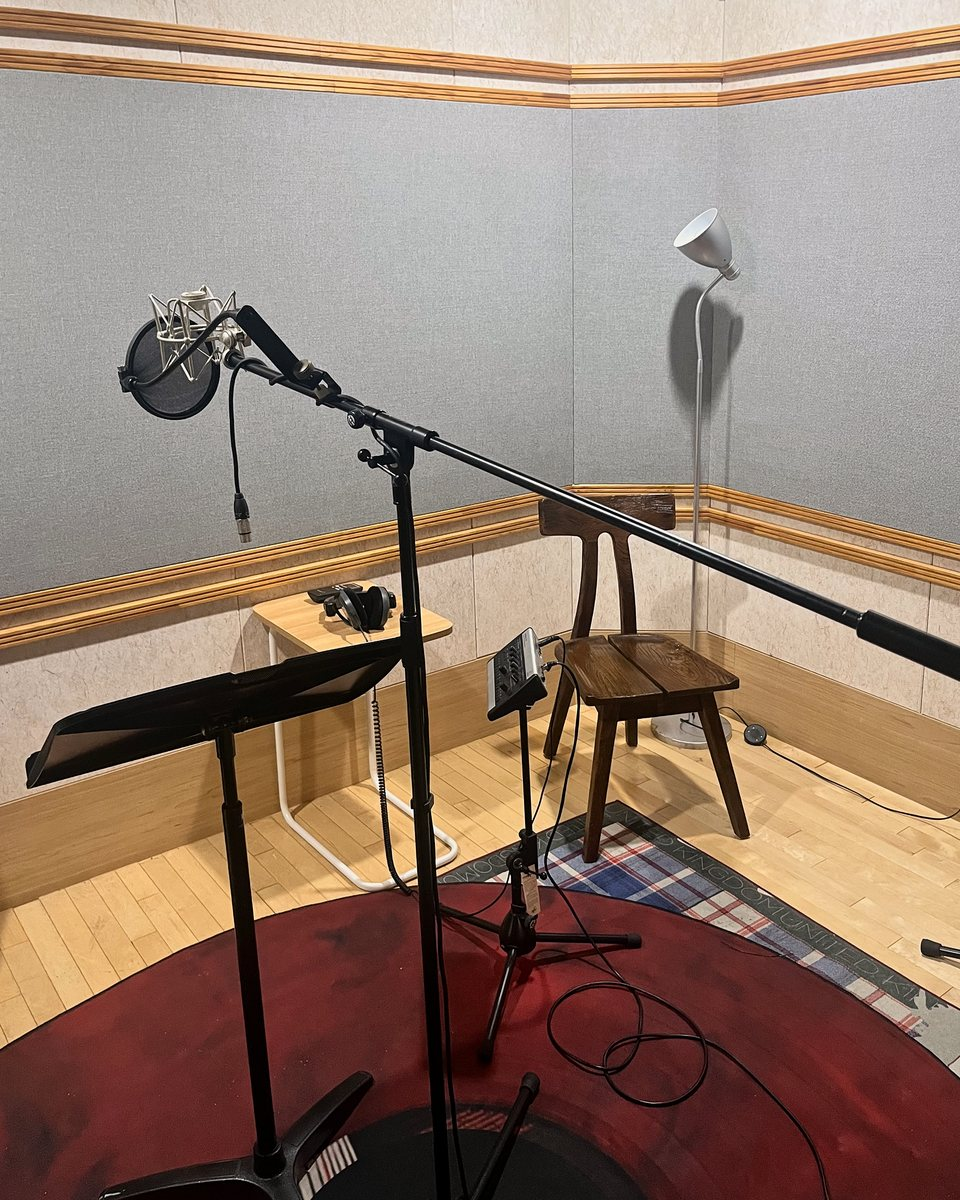
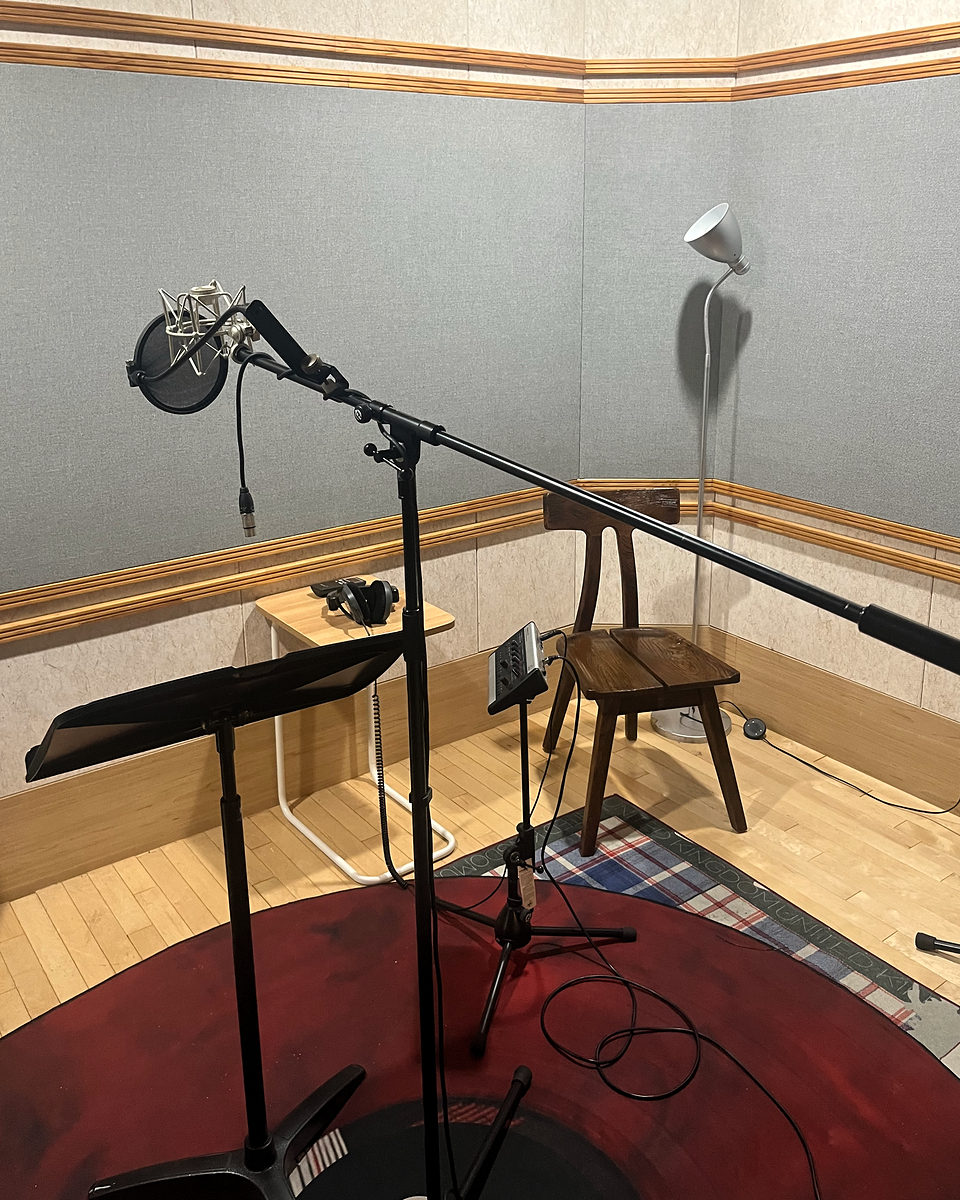
녹음실 사진 2차 보정본 교체: 히어로·부스·보관함·모니터 컨트롤러(기기 전체)·부스 안쪽, 컨트롤러 alt 갱신

diff --git a/en/studio/index.html b/en/studio/index.html
@@ -25,7 +25,7 @@
 <body>
 <a class="skip" href="#main">Skip to content</a>
 <header class="site-header"><div class="wrap bar"><a class="brand" href="/en/">ML Music Studio</a><nav class="site-nav" aria-label="Main navigation"><details class="menu"><summary>Menu</summary><ul class="nav"><li><a href="/en/work/">Work</a></li><li><a href="/en/studio/" aria-current="page">Studio</a></li><li><a href="/en/apps/">Apps</a></li><li><a href="/en/tools/">Web Tools</a></li><li><a href="/en/plugins/">Plugins</a></li><li><a href="/guides/">Guides</a></li></ul></details><ul class="nav nav-wide"><li><a href="/en/work/">Work</a></li><li><a href="/en/studio/" aria-current="page">Studio</a></li><li><a href="/en/apps/">Apps</a></li><li><a href="/en/tools/">Web Tools</a></li><li><a href="/en/plugins/">Plugins</a></li><li><a href="/guides/">Guides</a></li></ul></nav><details class="lang"><summary aria-label="Language">EN ▾</summary><ul><li><a href="/studio/" hreflang="ko" lang="ko">한국어</a></li><li><a href="/en/studio/" hreflang="en" lang="en" aria-current="true">English</a></li></ul></details></div></header>
-<main id="main"><section class="photo-hero"><div class="ph-media"><img src="/img/studio/control-room.jpg" srcset="/img/studio/control-room-1200.jpg 1200w, /img/studio/control-room.jpg 1440w" sizes="(min-width:900px) min(590px, 50vw), min(767px, calc(100vw - 32px))" alt="The ML Music Studio control room: four monitor speakers, screens and the desk" width="1440" height="960" fetchpriority="high"></div><div class="wrap ph-copy"><h1>ML Music Studio Recording</h1><p class="sub">Yongsan, Seoul · Recording · Mixing · Mastering</p><div class="row"><a class="btn primary" href="https://open.kakao.com/o/sQhjCeZb" rel="noopener">Contact us</a><a class="btn" href="/en/work/">See the work</a></div></div></section><section class="band"><div class="wrap"><h2>The studio</h2><div class="gallery bento"><figure class="pic port"><img src="/img/studio/vocal-booth.jpg" alt="The recording booth with a boom stand, a pop filter and a music stand" width="960" height="1200" loading="lazy"><figcaption>Recording booth</figcaption></figure><figure class="pic port"><img src="/img/studio/mic-cabinet.jpg" alt="Condenser, dynamic and handheld microphones on the shelves of a humidity-controlled cabinet" width="960" height="1200" loading="lazy"><figcaption>Microphone dry cabinet</figcaption></figure><figure class="pic land"><img src="/img/studio/preamp-compressor.jpg" alt="The controls of a Neve 1073DPA microphone preamp and a Tube-Tech CL 1B compressor" width="1023" height="682" loading="lazy"><figcaption>Preamp and compressor</figcaption></figure><figure class="pic land"><img src="/img/studio/monitor-controller.jpg" alt="The volume knob and buttons of a Grace Design m905 monitor controller" width="1200" height="800" loading="lazy"><figcaption>Monitor controller</figcaption></figure><figure class="pic land"><img src="/img/studio/booth-corner.jpg" alt="Inside the recording booth: a boom stand with a pop filter and an empty shock mount, a chair and headphones" width="1400" height="1000" loading="lazy"><figcaption>Inside the booth</figcaption></figure></div></div></section><section class="band"><div class="wrap"><h2>Gear</h2><div class="gear-groups"><div class="gear-group"><h3>Microphones</h3><ul class="gear"><li>Neumann U87 (vintage) microphone</li><li>Telefunken microphone</li></ul></div><div class="gear-group"><h3>Preamps &amp; compressor</h3><ul class="gear"><li>Grace Design m201 microphone preamp</li><li>Neve 1073DPA</li><li>Lydkraft Tube-Tech CL 1B compressor</li></ul></div><div class="gear-group"><h3>Interface &amp; controller</h3><ul class="gear"><li>Avid HD I/O</li><li>Grace Design m905 monitor controller</li></ul></div><div class="gear-group"><h3>Monitors</h3><ul class="gear"><li>Focal Solo6 Be monitors</li><li>Dynaudio monitors</li></ul></div></div><p class="note">The equipment used in the studio.</p></div></section><section class="band"><div class="wrap"><h2>Fields of work</h2><ul class="chips"><li>Albums</li><li>Film</li><li>Theatre</li><li>Musical</li><li>Broadcast</li><li>Events</li><li>Audiobook</li></ul></div></section><section class="band"><div class="wrap"><div class="band-head"><h2>Selected work</h2><a class="more" href="/en/work/">See all work →</a></div><div class="covers strip-4"><figure class="cover"><img src="/img/work/01_17.jpg" alt="이루마 — Blind Film" width="324" height="324" loading="lazy"><figcaption><strong><span lang="ko">이루마</span></strong><span>Blind Film</span></figcaption></figure><figure class="cover"><img src="/img/work/hs_11.jpg" alt="류석원 — First Moment To Breakup" width="324" height="324" loading="lazy"><figcaption><strong><span lang="ko">류석원</span></strong><span>First Moment To Breakup</span></figcaption></figure><figure class="cover"><img src="/img/work/hs_09.jpg" alt="박강수 — GiRL’s" width="324" height="324" loading="lazy"><figcaption><strong><span lang="ko">박강수</span></strong><span>GiRL’s</span></figcaption></figure><figure class="cover"><img src="/img/work/hs_12.jpg" alt="우당탕탕 아이쿠" width="324" height="324" loading="lazy"><figcaption><strong><span lang="ko">우당탕탕 아이쿠</span></strong></figcaption></figure><figure class="cover"><img src="/img/work/01_11.jpg" alt="이지영 — Eulogy" width="324" height="324" loading="lazy"><figcaption><strong><span lang="ko">이지영</span></strong><span>Eulogy</span></figcaption></figure><figure class="cover"><img src="/img/work/hs_01.jpg" alt="완전보험주식회사" width="324" height="324" loading="lazy"><figcaption><strong><span lang="ko">완전보험주식회사</span></strong></figcaption></figure><figure class="cover"><img src="/img/work/01_03.jpg" alt="서지안 — THINK ABOUT" width="324" height="324" loading="lazy"><figcaption><strong><span lang="ko">서지안</span></strong><span>THINK ABOUT</span></figcaption></figure><figure class="cover"><img src="/img/work/05_01.jpg" alt="제100회 전국체전" width="324" height="324" loading="lazy"><figcaption><strong><span lang="ko">제</span>100<span lang="ko">회 전국체전</span></strong></figcaption></figure></div></div></section><section class="band dark"><div class="wrap"><h2>Location and contact</h2><p>By appointment — please message us on KakaoTalk first.</p><div class="row"><a class="btn primary" href="https://open.kakao.com/o/sQhjCeZb" rel="noopener">Contact on KakaoTalk</a><a class="btn" href="mailto:wa547@hanmail.net">wa547@hanmail.net</a></div><p class="addr"><a href="https://map.naver.com/p/search/%EC%84%9C%EC%9A%B8%20%EC%9A%A9%EC%82%B0%EA%B5%AC%20%EC%9B%90%ED%9A%A8%EB%A1%9C4%EA%B0%80%20120-3" rel="noopener">3F, 120-3 Wonhyo-ro 4-ga, Yongsan-gu, Seoul</a></p></div></section></main>
+<main id="main"><section class="photo-hero"><div class="ph-media"><img src="/img/studio/control-room.jpg" srcset="/img/studio/control-room-1200.jpg 1200w, /img/studio/control-room.jpg 1440w" sizes="(min-width:900px) min(590px, 50vw), min(767px, calc(100vw - 32px))" alt="The ML Music Studio control room: four monitor speakers, screens and the desk" width="1440" height="960" fetchpriority="high"></div><div class="wrap ph-copy"><h1>ML Music Studio Recording</h1><p class="sub">Yongsan, Seoul · Recording · Mixing · Mastering</p><div class="row"><a class="btn primary" href="https://open.kakao.com/o/sQhjCeZb" rel="noopener">Contact us</a><a class="btn" href="/en/work/">See the work</a></div></div></section><section class="band"><div class="wrap"><h2>The studio</h2><div class="gallery bento"><figure class="pic port"><img src="/img/studio/vocal-booth.jpg" alt="The recording booth with a boom stand, a pop filter and a music stand" width="960" height="1200" loading="lazy"><figcaption>Recording booth</figcaption></figure><figure class="pic port"><img src="/img/studio/mic-cabinet.jpg" alt="Condenser, dynamic and handheld microphones on the shelves of a humidity-controlled cabinet" width="960" height="1200" loading="lazy"><figcaption>Microphone dry cabinet</figcaption></figure><figure class="pic land"><img src="/img/studio/preamp-compressor.jpg" alt="The controls of a Neve 1073DPA microphone preamp and a Tube-Tech CL 1B compressor" width="1023" height="682" loading="lazy"><figcaption>Preamp and compressor</figcaption></figure><figure class="pic land"><img src="/img/studio/monitor-controller.jpg" alt="A Grace Design m905 monitor controller, showing the whole unit with its display and volume knob" width="1200" height="800" loading="lazy"><figcaption>Monitor controller</figcaption></figure><figure class="pic land"><img src="/img/studio/booth-corner.jpg" alt="Inside the recording booth: a boom stand with a pop filter and an empty shock mount, a chair and headphones" width="1400" height="1000" loading="lazy"><figcaption>Inside the booth</figcaption></figure></div></div></section><section class="band"><div class="wrap"><h2>Gear</h2><div class="gear-groups"><div class="gear-group"><h3>Microphones</h3><ul class="gear"><li>Neumann U87 (vintage) microphone</li><li>Telefunken microphone</li></ul></div><div class="gear-group"><h3>Preamps &amp; compressor</h3><ul class="gear"><li>Grace Design m201 microphone preamp</li><li>Neve 1073DPA</li><li>Lydkraft Tube-Tech CL 1B compressor</li></ul></div><div class="gear-group"><h3>Interface &amp; controller</h3><ul class="gear"><li>Avid HD I/O</li><li>Grace Design m905 monitor controller</li></ul></div><div class="gear-group"><h3>Monitors</h3><ul class="gear"><li>Focal Solo6 Be monitors</li><li>Dynaudio monitors</li></ul></div></div><p class="note">The equipment used in the studio.</p></div></section><section class="band"><div class="wrap"><h2>Fields of work</h2><ul class="chips"><li>Albums</li><li>Film</li><li>Theatre</li><li>Musical</li><li>Broadcast</li><li>Events</li><li>Audiobook</li></ul></div></section><section class="band"><div class="wrap"><div class="band-head"><h2>Selected work</h2><a class="more" href="/en/work/">See all work →</a></div><div class="covers strip-4"><figure class="cover"><img src="/img/work/01_17.jpg" alt="이루마 — Blind Film" width="324" height="324" loading="lazy"><figcaption><strong><span lang="ko">이루마</span></strong><span>Blind Film</span></figcaption></figure><figure class="cover"><img src="/img/work/hs_11.jpg" alt="류석원 — First Moment To Breakup" width="324" height="324" loading="lazy"><figcaption><strong><span lang="ko">류석원</span></strong><span>First Moment To Breakup</span></figcaption></figure><figure class="cover"><img src="/img/work/hs_09.jpg" alt="박강수 — GiRL’s" width="324" height="324" loading="lazy"><figcaption><strong><span lang="ko">박강수</span></strong><span>GiRL’s</span></figcaption></figure><figure class="cover"><img src="/img/work/hs_12.jpg" alt="우당탕탕 아이쿠" width="324" height="324" loading="lazy"><figcaption><strong><span lang="ko">우당탕탕 아이쿠</span></strong></figcaption></figure><figure class="cover"><img src="/img/work/01_11.jpg" alt="이지영 — Eulogy" width="324" height="324" loading="lazy"><figcaption><strong><span lang="ko">이지영</span></strong><span>Eulogy</span></figcaption></figure><figure class="cover"><img src="/img/work/hs_01.jpg" alt="완전보험주식회사" width="324" height="324" loading="lazy"><figcaption><strong><span lang="ko">완전보험주식회사</span></strong></figcaption></figure><figure class="cover"><img src="/img/work/01_03.jpg" alt="서지안 — THINK ABOUT" width="324" height="324" loading="lazy"><figcaption><strong><span lang="ko">서지안</span></strong><span>THINK ABOUT</span></figcaption></figure><figure class="cover"><img src="/img/work/05_01.jpg" alt="제100회 전국체전" width="324" height="324" loading="lazy"><figcaption><strong><span lang="ko">제</span>100<span lang="ko">회 전국체전</span></strong></figcaption></figure></div></div></section><section class="band dark"><div class="wrap"><h2>Location and contact</h2><p>By appointment — please message us on KakaoTalk first.</p><div class="row"><a class="btn primary" href="https://open.kakao.com/o/sQhjCeZb" rel="noopener">Contact on KakaoTalk</a><a class="btn" href="mailto:wa547@hanmail.net">wa547@hanmail.net</a></div><p class="addr"><a href="https://map.naver.com/p/search/%EC%84%9C%EC%9A%B8%20%EC%9A%A9%EC%82%B0%EA%B5%AC%20%EC%9B%90%ED%9A%A8%EB%A1%9C4%EA%B0%80%20120-3" rel="noopener">3F, 120-3 Wonhyo-ro 4-ga, Yongsan-gu, Seoul</a></p></div></section></main>
 <footer class="site-footer"><div class="wrap foot-grid"><div class="foot-brand"><a class="brand" href="/en/">ML Music Studio</a><p class="foot-tag">A recording, mixing and mastering studio in Yongsan, Seoul. We also make apps and web tools for sound work.</p></div><div class="foot-col"><p class="foot-h">Work</p><ul class="foot-links"><li><a href="/en/work/">Work</a></li><li><a href="/en/about/">About</a></li></ul></div><div class="foot-col"><p class="foot-h">Studio</p><ul class="foot-links"><li><a href="/en/studio/">Studio</a></li><li><a href="https://map.naver.com/p/search/%EC%84%9C%EC%9A%B8%20%EC%9A%A9%EC%82%B0%EA%B5%AC%20%EC%9B%90%ED%9A%A8%EB%A1%9C4%EA%B0%80%20120-3" rel="noopener">Directions</a></li></ul></div><div class="foot-col"><p class="foot-h">Products</p><ul class="foot-links"><li><a href="/en/apps/">Apps</a></li><li><a href="/en/tools/">Web Tools</a></li><li><a href="/en/plugins/">Plugins</a></li><li><a href="/guides/">Guides</a></li></ul></div><div class="foot-col"><p class="foot-h">Contact</p><ul class="foot-links"><li><a href="/en/contact/">How to reach us</a></li><li><a href="https://open.kakao.com/o/sQhjCeZb" rel="noopener">Contact on KakaoTalk</a></li><li><a href="mailto:wa547@hanmail.net">wa547@hanmail.net</a></li><li><a href="/en/privacy/">Privacy Policy</a></li></ul></div></div><div class="wrap"><p class="copy">© 2026 ML Music Studio</p></div></footer>
 </body>
 </html>

diff --git a/studio/index.html b/studio/index.html
@@ -25,7 +25,7 @@
 <body>
 <a class="skip" href="#main">본문으로 건너뛰기</a>
 <header class="site-header"><div class="wrap bar"><a class="brand" href="/">ML Music Studio</a><nav class="site-nav" aria-label="주 메뉴"><details class="menu"><summary>메뉴</summary><ul class="nav"><li><a href="/work/">작업</a></li><li><a href="/studio/" aria-current="page">녹음실</a></li><li><a href="/apps/">앱</a></li><li><a href="/tools/">웹 도구</a></li><li><a href="/plugins/">플러그인</a></li><li><a href="/guides/">가이드</a></li></ul></details><ul class="nav nav-wide"><li><a href="/work/">작업</a></li><li><a href="/studio/" aria-current="page">녹음실</a></li><li><a href="/apps/">앱</a></li><li><a href="/tools/">웹 도구</a></li><li><a href="/plugins/">플러그인</a></li><li><a href="/guides/">가이드</a></li></ul></nav><details class="lang"><summary aria-label="언어">KO ▾</summary><ul><li><a href="/studio/" hreflang="ko" lang="ko" aria-current="true">한국어</a></li><li><a href="/en/studio/" hreflang="en" lang="en">English</a></li></ul></details></div></header>
-<main id="main"><section class="photo-hero"><div class="ph-media"><img src="/img/studio/control-room.jpg" srcset="/img/studio/control-room-1200.jpg 1200w, /img/studio/control-room.jpg 1440w" sizes="(min-width:900px) min(590px, 50vw), min(767px, calc(100vw - 32px))" alt="ML Music Studio 컨트롤룸: 모니터 스피커 네 대와 화면, 책상" width="1440" height="960" fetchpriority="high"></div><div class="wrap ph-copy"><h1>ML Music Studio 녹음실</h1><p class="sub">서울 용산 · 녹음 · 믹싱 · 마스터링</p><div class="row"><a class="btn primary" href="https://open.kakao.com/o/sQhjCeZb" rel="noopener">문의하기</a><a class="btn" href="/work/">작업 보기</a></div></div></section><section class="band"><div class="wrap"><h2>작업실</h2><div class="gallery bento"><figure class="pic port"><img src="/img/studio/vocal-booth.jpg" alt="붐 스탠드와 팝 필터, 보면대가 놓인 녹음 부스" width="960" height="1200" loading="lazy"><figcaption>녹음 부스</figcaption></figure><figure class="pic port"><img src="/img/studio/mic-cabinet.jpg" alt="습도 조절 보관함 선반에 놓인 콘덴서·다이내믹·핸드헬드 마이크" width="960" height="1200" loading="lazy"><figcaption>마이크 보관함</figcaption></figure><figure class="pic land"><img src="/img/studio/preamp-compressor.jpg" alt="Neve 1073DPA 마이크 프리앰프와 Tube-Tech CL 1B 컴프레서의 노브" width="1023" height="682" loading="lazy"><figcaption>프리앰프와 컴프레서</figcaption></figure><figure class="pic land"><img src="/img/studio/monitor-controller.jpg" alt="Grace Design m905 모니터 컨트롤러의 볼륨 노브와 버튼" width="1200" height="800" loading="lazy"><figcaption>모니터 컨트롤러</figcaption></figure><figure class="pic land"><img src="/img/studio/booth-corner.jpg" alt="팝 필터와 빈 쇼크 마운트가 달린 붐 스탠드, 의자와 헤드폰이 놓인 녹음 부스 안쪽" width="1400" height="1000" loading="lazy"><figcaption>녹음 부스 안쪽</figcaption></figure></div></div></section><section class="band"><div class="wrap"><h2>장비</h2><div class="gear-groups"><div class="gear-group"><h3>마이크</h3><ul class="gear"><li>Neumann U87 빈티지 마이크</li><li>Telefunken 마이크</li></ul></div><div class="gear-group"><h3>프리앰프·컴프레서</h3><ul class="gear"><li>Grace Design m201 마이크 프리앰프</li><li>Neve 1073DPA</li><li>Lydkraft Tube-Tech CL 1B 컴프레서</li></ul></div><div class="gear-group"><h3>인터페이스·컨트롤러</h3><ul class="gear"><li>Avid HD I/O</li><li>Grace Design m905 모니터 컨트롤러</li></ul></div><div class="gear-group"><h3>모니터</h3><ul class="gear"><li>Focal Solo6 Be 모니터</li><li>Dynaudio 모니터</li></ul></div></div><p class="note">작업실에서 쓰는 장비입니다.</p></div></section><section class="band"><div class="wrap"><h2>작업 분야</h2><ul class="chips"><li>음반</li><li>영화</li><li>연극</li><li>뮤지컬</li><li>방송</li><li>행사</li><li>오디오북</li></ul></div></section><section class="band"><div class="wrap"><div class="band-head"><h2>참여한 작업</h2><a class="more" href="/work/">전체 작업 보기 →</a></div><div class="covers strip-4"><figure class="cover"><img src="/img/work/01_17.jpg" alt="이루마 — Blind Film" width="324" height="324" loading="lazy"><figcaption><strong>이루마</strong><span>Blind Film</span></figcaption></figure><figure class="cover"><img src="/img/work/hs_11.jpg" alt="류석원 — First Moment To Breakup" width="324" height="324" loading="lazy"><figcaption><strong>류석원</strong><span>First Moment To Breakup</span></figcaption></figure><figure class="cover"><img src="/img/work/hs_09.jpg" alt="박강수 — GiRL’s" width="324" height="324" loading="lazy"><figcaption><strong>박강수</strong><span>GiRL’s</span></figcaption></figure><figure class="cover"><img src="/img/work/hs_12.jpg" alt="우당탕탕 아이쿠" width="324" height="324" loading="lazy"><figcaption><strong>우당탕탕 아이쿠</strong></figcaption></figure><figure class="cover"><img src="/img/work/01_11.jpg" alt="이지영 — Eulogy" width="324" height="324" loading="lazy"><figcaption><strong>이지영</strong><span>Eulogy</span></figcaption></figure><figure class="cover"><img src="/img/work/hs_01.jpg" alt="완전보험주식회사" width="324" height="324" loading="lazy"><figcaption><strong>완전보험주식회사</strong></figcaption></figure><figure class="cover"><img src="/img/work/01_03.jpg" alt="서지안 — THINK ABOUT" width="324" height="324" loading="lazy"><figcaption><strong>서지안</strong><span>THINK ABOUT</span></figcaption></figure><figure class="cover"><img src="/img/work/05_01.jpg" alt="제100회 전국체전" width="324" height="324" loading="lazy"><figcaption><strong>제100회 전국체전</strong></figcaption></figure></div></div></section><section class="band dark"><div class="wrap"><h2>위치·문의</h2><p>예약제 — 카카오톡으로 먼저 문의해 주세요.</p><div class="row"><a class="btn primary" href="https://open.kakao.com/o/sQhjCeZb" rel="noopener">카카오톡으로 문의</a><a class="btn" href="mailto:wa547@hanmail.net">wa547@hanmail.net</a></div><p class="addr"><a href="https://map.naver.com/p/search/%EC%84%9C%EC%9A%B8%20%EC%9A%A9%EC%82%B0%EA%B5%AC%20%EC%9B%90%ED%9A%A8%EB%A1%9C4%EA%B0%80%20120-3" rel="noopener">서울 용산구 원효로4가 120-3, 3층</a></p></div></section></main>
+<main id="main"><section class="photo-hero"><div class="ph-media"><img src="/img/studio/control-room.jpg" srcset="/img/studio/control-room-1200.jpg 1200w, /img/studio/control-room.jpg 1440w" sizes="(min-width:900px) min(590px, 50vw), min(767px, calc(100vw - 32px))" alt="ML Music Studio 컨트롤룸: 모니터 스피커 네 대와 화면, 책상" width="1440" height="960" fetchpriority="high"></div><div class="wrap ph-copy"><h1>ML Music Studio 녹음실</h1><p class="sub">서울 용산 · 녹음 · 믹싱 · 마스터링</p><div class="row"><a class="btn primary" href="https://open.kakao.com/o/sQhjCeZb" rel="noopener">문의하기</a><a class="btn" href="/work/">작업 보기</a></div></div></section><section class="band"><div class="wrap"><h2>작업실</h2><div class="gallery bento"><figure class="pic port"><img src="/img/studio/vocal-booth.jpg" alt="붐 스탠드와 팝 필터, 보면대가 놓인 녹음 부스" width="960" height="1200" loading="lazy"><figcaption>녹음 부스</figcaption></figure><figure class="pic port"><img src="/img/studio/mic-cabinet.jpg" alt="습도 조절 보관함 선반에 놓인 콘덴서·다이내믹·핸드헬드 마이크" width="960" height="1200" loading="lazy"><figcaption>마이크 보관함</figcaption></figure><figure class="pic land"><img src="/img/studio/preamp-compressor.jpg" alt="Neve 1073DPA 마이크 프리앰프와 Tube-Tech CL 1B 컴프레서의 노브" width="1023" height="682" loading="lazy"><figcaption>프리앰프와 컴프레서</figcaption></figure><figure class="pic land"><img src="/img/studio/monitor-controller.jpg" alt="Grace Design m905 모니터 컨트롤러 전체와 디스플레이, 볼륨 노브" width="1200" height="800" loading="lazy"><figcaption>모니터 컨트롤러</figcaption></figure><figure class="pic land"><img src="/img/studio/booth-corner.jpg" alt="팝 필터와 빈 쇼크 마운트가 달린 붐 스탠드, 의자와 헤드폰이 놓인 녹음 부스 안쪽" width="1400" height="1000" loading="lazy"><figcaption>녹음 부스 안쪽</figcaption></figure></div></div></section><section class="band"><div class="wrap"><h2>장비</h2><div class="gear-groups"><div class="gear-group"><h3>마이크</h3><ul class="gear"><li>Neumann U87 빈티지 마이크</li><li>Telefunken 마이크</li></ul></div><div class="gear-group"><h3>프리앰프·컴프레서</h3><ul class="gear"><li>Grace Design m201 마이크 프리앰프</li><li>Neve 1073DPA</li><li>Lydkraft Tube-Tech CL 1B 컴프레서</li></ul></div><div class="gear-group"><h3>인터페이스·컨트롤러</h3><ul class="gear"><li>Avid HD I/O</li><li>Grace Design m905 모니터 컨트롤러</li></ul></div><div class="gear-group"><h3>모니터</h3><ul class="gear"><li>Focal Solo6 Be 모니터</li><li>Dynaudio 모니터</li></ul></div></div><p class="note">작업실에서 쓰는 장비입니다.</p></div></section><section class="band"><div class="wrap"><h2>작업 분야</h2><ul class="chips"><li>음반</li><li>영화</li><li>연극</li><li>뮤지컬</li><li>방송</li><li>행사</li><li>오디오북</li></ul></div></section><section class="band"><div class="wrap"><div class="band-head"><h2>참여한 작업</h2><a class="more" href="/work/">전체 작업 보기 →</a></div><div class="covers strip-4"><figure class="cover"><img src="/img/work/01_17.jpg" alt="이루마 — Blind Film" width="324" height="324" loading="lazy"><figcaption><strong>이루마</strong><span>Blind Film</span></figcaption></figure><figure class="cover"><img src="/img/work/hs_11.jpg" alt="류석원 — First Moment To Breakup" width="324" height="324" loading="lazy"><figcaption><strong>류석원</strong><span>First Moment To Breakup</span></figcaption></figure><figure class="cover"><img src="/img/work/hs_09.jpg" alt="박강수 — GiRL’s" width="324" height="324" loading="lazy"><figcaption><strong>박강수</strong><span>GiRL’s</span></figcaption></figure><figure class="cover"><img src="/img/work/hs_12.jpg" alt="우당탕탕 아이쿠" width="324" height="324" loading="lazy"><figcaption><strong>우당탕탕 아이쿠</strong></figcaption></figure><figure class="cover"><img src="/img/work/01_11.jpg" alt="이지영 — Eulogy" width="324" height="324" loading="lazy"><figcaption><strong>이지영</strong><span>Eulogy</span></figcaption></figure><figure class="cover"><img src="/img/work/hs_01.jpg" alt="완전보험주식회사" width="324" height="324" loading="lazy"><figcaption><strong>완전보험주식회사</strong></figcaption></figure><figure class="cover"><img src="/img/work/01_03.jpg" alt="서지안 — THINK ABOUT" width="324" height="324" loading="lazy"><figcaption><strong>서지안</strong><span>THINK ABOUT</span></figcaption></figure><figure class="cover"><img src="/img/work/05_01.jpg" alt="제100회 전국체전" width="324" height="324" loading="lazy"><figcaption><strong>제100회 전국체전</strong></figcaption></figure></div></div></section><section class="band dark"><div class="wrap"><h2>위치·문의</h2><p>예약제 — 카카오톡으로 먼저 문의해 주세요.</p><div class="row"><a class="btn primary" href="https://open.kakao.com/o/sQhjCeZb" rel="noopener">카카오톡으로 문의</a><a class="btn" href="mailto:wa547@hanmail.net">wa547@hanmail.net</a></div><p class="addr"><a href="https://map.naver.com/p/search/%EC%84%9C%EC%9A%B8%20%EC%9A%A9%EC%82%B0%EA%B5%AC%20%EC%9B%90%ED%9A%A8%EB%A1%9C4%EA%B0%80%20120-3" rel="noopener">서울 용산구 원효로4가 120-3, 3층</a></p></div></section></main>
 <footer class="site-footer"><div class="wrap foot-grid"><div class="foot-brand"><a class="brand" href="/">ML Music Studio</a><p class="foot-tag">서울 용산의 녹음·믹싱·마스터링 스튜디오입니다. 현장에서 쓰는 앱과 웹 도구도 만듭니다.</p></div><div class="foot-col"><p class="foot-h">작업</p><ul class="foot-links"><li><a href="/work/">작업</a></li><li><a href="/about/">소개</a></li></ul></div><div class="foot-col"><p class="foot-h">스튜디오</p><ul class="foot-links"><li><a href="/studio/">녹음실</a></li><li><a href="https://map.naver.com/p/search/%EC%84%9C%EC%9A%B8%20%EC%9A%A9%EC%82%B0%EA%B5%AC%20%EC%9B%90%ED%9A%A8%EB%A1%9C4%EA%B0%80%20120-3" rel="noopener">오시는 길</a></li></ul></div><div class="foot-col"><p class="foot-h">제품</p><ul class="foot-links"><li><a href="/apps/">앱</a></li><li><a href="/tools/">웹 도구</a></li><li><a href="/plugins/">플러그인</a></li><li><a href="/guides/">가이드</a></li></ul></div><div class="foot-col"><p class="foot-h">문의</p><ul class="foot-links"><li><a href="/contact/">문의 안내</a></li><li><a href="https://open.kakao.com/o/sQhjCeZb" rel="noopener">카카오톡으로 문의</a></li><li><a href="mailto:wa547@hanmail.net">wa547@hanmail.net</a></li><li><a href="/privacy/">개인정보처리방침</a></li></ul></div></div><div class="wrap"><p class="copy">© 2026 ML Music Studio</p></div></footer>
 </body>
 </html>
